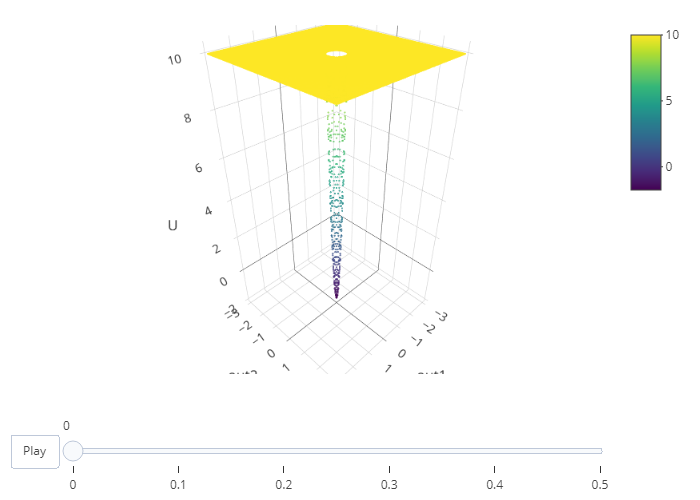
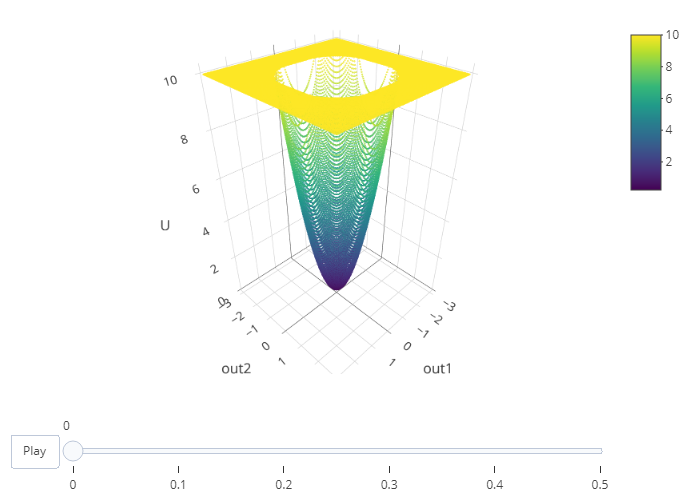
21.3.4.1
Add some new plots; Update readme; Update NEWS

diff --git a/README.md b/README.md
@@ -32,26 +32,52 @@ library(simlandr)
 single_test <- sim_fun_test(par1 = list(var1 = 1), 
                                                         par2 = list(var2 = 1, var3 = 0))
 
-# Batch simulation
+# Batch simulation: simulate a set of models with different parameter values
 
+## Step 1: create a variable set
 batch_test <- new_var_set()
+
+## Step 2: add variable and its range to the set
 batch_test <- batch_test %>%
-  # add_var("par1", "var1", 1, 2, 0.3) %>%
-  # add_var("par2", "var2", 1, 2, 0.3) %>%
     add_var("par2", "var3", 0, 0.5, 0.1)
+
+## Step 3: make variable grids
 batch_test_grid <- make_var_grid(batch_test)
 
+## Step 4: run the batch simulation
 batch_test_result <- batch_simulation(batch_test_grid, sim_fun_test,
   default_list = list(
     par1 = list(var1 = 0),
     par2 = list(var2 = 0, var3 = 0)
   )
 )
+
 batch_test_result
 #> Output(s) from 6 simulations.
+batch_test_result <- attach_all_matrices(batch_test_result)
+
+# WARNING if you are using bigmemory: Due to a bug of RStudio, its variable inspector cannot handle objects with null external pointers. Work around: Turn off "automatically load workspace image"; change the variable inspector to "Manual refresh only", and then load the image and use attach_all_matrices for all batch simulations. After that, you can safely use the variable inspector. #
+
+# Batch simulation with two parameters
+
+batch_test2 <- new_var_set()
+batch_test2 <- batch_test2 %>%
+  add_var("par1", "var1", -0.2, 0.2, 0.2) %>%
+  add_var("par2", "var2", -0.2, 0.2, 0.2)
+batch_test_grid2 <- make_var_grid(batch_test2)
+
+batch_test_result2 <- batch_simulation(batch_test_grid2, sim_fun_test, bigmemory = FALSE,
+  default_list = list(
+    par1 = list(var1 = 0),
+    par2 = list(var2 = 0, var3 = 0)
+  )
+)
+batch_test_result2
+#> Output(s) from 9 simulations.
 
 # Build landscapes
 
+## 1. 2d density landscape
 l1 <- make_2d_density(single_test, x = "out1", from = -2, to = 2, adjust = 0.1)
 plot(l1)
 ```
@@ -59,12 +85,18 @@ plot(l1)
 <img src="man/figures/README-example-1.png" width="100%" />
 
 ``` r
-l2 <- make_3d_static(single_test, x = "out1", y = "out2", lims = c(-3,3,-3,3), h = 0.5)
+## 2. 3d static interactive landscape
+
+l2 <- make_3d_static(single_test, x = "out1", y = "out2", lims = c(-3,3,-3,3), h = 0.01, kde_fun = "ks")
 #> Calculating the smooth distribution...
 #> Done!
 #> Making the plot...
 #> Done!
-# plot(l2)
+#> Making the 2d plot...
+#> Done!
+
+# l2 <- make_3d_static(single_test, x = "out1", y = "out2", lims = c(-3,3,-3,3), h = 0.5, kde_fun = "MASS") # If you want to use kernel smooth function from MASS
+# plot(l2) # Markdown cannot render interactive plots. You can try to run this command at your device.
 plotly::orca(plot(l2), file = "man/figures/README-example-l2.png")
 ```
 
@@ -75,10 +107,19 @@ knitr::include_graphics("man/figures/README-example-l2.png")
 <img src="man/figures/README-example-l2.png" width="100%" />
 
 ``` r
+plot(l2, 2) # the heatmap version
+```
+
+<img src="man/figures/README-example-3.png" width="100%" />
+
+``` r
+## 3. 3d landscape animation with a changing parameter
 l3 <- make_3d_animation_multisim(batch_test_result, x = "out1", y = "out2", fr = "var3", zmax = 10, lims = c(-3,3,-3,3), h = 0.2)
 #> Wrangling data...
 #> Done!
 #> Making the plot...
+#> Done!
+#> Making the 2d plot...
 #> Done!
 # plot(l3)
 plotly::orca(plot(l3), file = "man/figures/README-example-l3.png")
@@ -89,5 +130,25 @@ knitr::include_graphics("man/figures/README-example-l3.png")
 ```
 
 <img src="man/figures/README-example-l3.png" width="100%" />
+
+``` r
+## 4. 2d density matrix with two changing parameters
+l4 <- make_2d_matrix(batch_test_result2, x = "out1", rows = "var1", cols = "var2", from = -3, to = 3)
+#> Making the plot...
+#> Done!
+plot(l4)
+```
+
+<img src="man/figures/README-example-5.png" width="100%" />
+
+``` r
+## 5. 3d (including color dimension) heatplot matrix with two changing parameters
+l5 <- make_3d_matrix(batch_test_result2, x = "out1", y = "out2", rows = "var1", cols = "var2", lims = c(-3,3,-3,3), h = 0.01, kde_fun = "ks", zmax = 10)
+#> Making the 2d plot...
+#> Done!
+plot(l5)
+```
+
+<img src="man/figures/README-example-6.png" width="100%" />
 
 <!-- devtools::build_readme() -->

diff --git a/NEWS.md b/NEWS.md
@@ -1,6 +1,8 @@
 # simlandr (development version)
 * Added a `NEWS.md` file to track changes to the package.
 * Added `bigmemory` support for handling big matrices.
+* Added `ks` support for calculating kernel density,
+* Added more visualization methods.
 
 # simlandr 0.0.0.9000
 * Initial version
